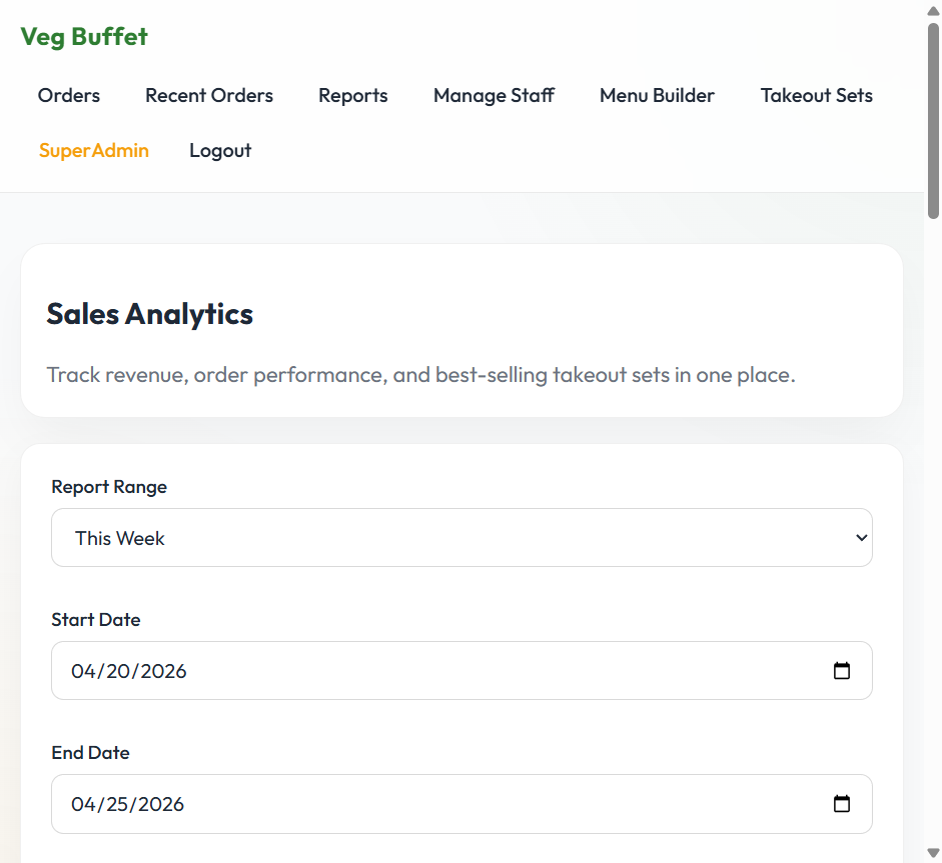
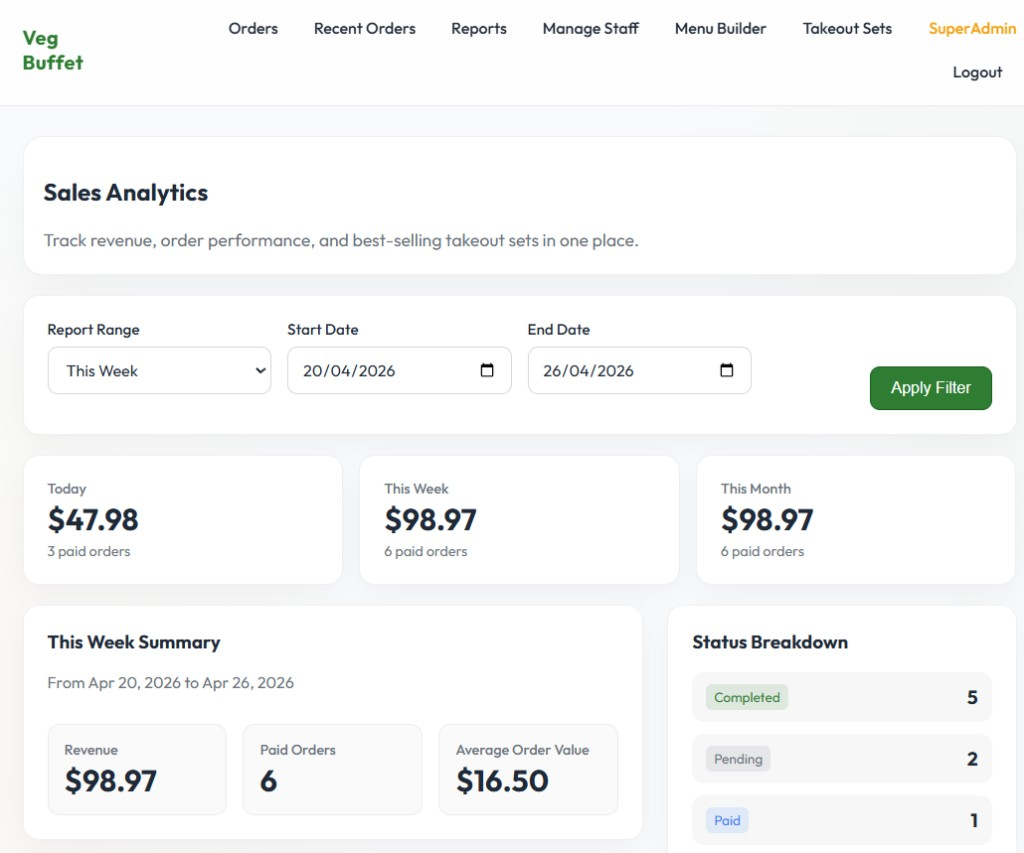
Add takeout and menu-form screenshots; expand Reports section; renumber admin figures
Made-with: Cursor

diff --git a/docs/user-guide.html b/docs/user-guide.html
@@ -474,92 +474,149 @@
     </p>
 
     <figure>
-      <img src="assets/screenshots/admin-menu.png" alt="Menu Builder page showing a vertical list of day buttons on the left side (Monday highlighted), with a form to add dishes on the right" />
-      <figcaption>Figure 10 — Menu Builder. Select a day on the left to see its current dishes and a form to add new ones.</figcaption>
+      <img src="assets/screenshots/admin-menu.png" alt="Menu Builder page showing a vertical list of day buttons on the left side (Monday highlighted), with current dishes listed and a form to add new dishes on the right" />
+      <figcaption>Figure 10 — Menu Builder. Click a day on the left to see its current dishes. Use the form on the right to add new dishes to that day.</figcaption>
     </figure>
 
     <p>How to use:</p>
     <ol>
-      <li>Click a <strong>day name</strong> to select it. The current dishes for that day appear on the right.</li>
+      <li>Click a <strong>day name</strong> on the left to select it. The dishes assigned to that day appear on the right.</li>
       <li>To <strong>remove a dish</strong> from the day, click <strong>Remove</strong> next to it.</li>
-      <li>To <strong>add a dish</strong>, fill in the <em>Dish Name</em>, <em>Description</em>, and optionally upload an image, then click <strong>Add</strong>.</li>
+      <li>To <strong>add a dish</strong>, fill in the <em>Dish Name</em> and <em>Description / Ingredients</em>, optionally upload an image, then click <strong>Add</strong>.</li>
     </ol>
+
+    <figure>
+      <img src="assets/screenshots/admin-menu-form.png" alt="Add Dish to Menu form with fields for Dish Name, Description / Ingredients textarea, and Upload Image file picker, with a green Add button at the bottom" />
+      <figcaption>Figure 11 — Add Dish form inside Menu Builder. Enter the dish name and ingredient description, optionally upload a photo, then click Add to assign it to the selected day.</figcaption>
+    </figure>
+
     <div class="note note-info">
       <div class="note-title">ℹ Dishes are shared across days</div>
       The same dish can appear on multiple days. If the dish name already exists in the database,
-      the system reuses the existing record and simply links it to the selected day.
+      the system reuses the existing dish record and links it to the selected day — no duplicate is created.
     </div>
 
     <h3 id="admin-takeout">Takeout Sets Management</h3>
-    <p>Go to <strong>Takeout Sets</strong> to manage the product catalog customers see on the Takeout page.</p>
+    <p>
+      Go to <strong>Takeout Sets</strong> to manage the product catalog that customers see on the Takeout page.
+      The page is split into two panels: existing sets on the left, and an Add New Set form on the right.
+    </p>
+
+    <figure>
+      <img src="assets/screenshots/admin-takeout.png" alt="Takeout Sets management page with existing sets listed on the left (Custom Takeout Box, Vegan Delight Box, Gluten-Free Harvest with Edit and Delete buttons) and an Add New Set form on the right with fields for Name, Description, Price, and Upload Image" />
+      <figcaption>Figure 12 — Takeout Sets page. Existing sets are listed on the left with Edit and Delete actions. The right panel creates a new set.</figcaption>
+    </figure>
+
     <ul>
-      <li><strong>Add a set:</strong> fill in name, description, price, image, and availability, then click Add Set.</li>
-      <li><strong>Toggle availability:</strong> each set has an Available/Unavailable toggle. Unavailable sets are hidden from customers.</li>
-      <li><strong>Edit a set:</strong> click Edit to modify any field.</li>
-      <li><strong>Delete a set:</strong> click Delete to permanently remove a set.</li>
+      <li><strong>Add a set:</strong> fill in the Name, Description, Price, and optionally upload an image on the right panel, then click <strong>Add Set</strong>.</li>
+      <li><strong>Edit a set:</strong> click <strong>Edit</strong> on any existing set to modify its fields inline.</li>
+      <li><strong>Delete a set:</strong> click <strong>Delete</strong> to permanently remove a set. This cannot be undone.</li>
+      <li><strong>Custom Box tag:</strong> sets marked as "Custom Box" (like the Custom Takeout Box) allow customers to write in their own dish selection instead of a fixed contents list.</li>
     </ul>
 
     <h3 id="admin-staff">Staff Account Management</h3>
-    <p>Go to <strong>Manage Staff</strong> to manage who has access to the internal portal.</p>
+    <p>Go to <strong>Manage Staff</strong> to control who can log into the internal portal.</p>
 
     <figure>
       <img src="assets/screenshots/admin-staff.png" alt="Manage Staff page showing a table of current staff accounts with email, status, creation date, and action buttons (Disable, Reset Password), plus a Create Staff Account form at the bottom" />
-      <figcaption>Figure 11 — Staff Management page. Active staff accounts are listed at the top. The form at the bottom creates new staff accounts.</figcaption>
+      <figcaption>Figure 13 — Staff Management page. All staff accounts are listed at the top. The form at the bottom creates a new staff account.</figcaption>
     </figure>
 
     <h4>Creating a Staff Account</h4>
     <ol>
-      <li>Scroll to the <strong>Create Staff Account</strong> section.</li>
-      <li>Enter the staff member's email and a temporary initial password.</li>
-      <li>Click <strong>Create Staff</strong>. The account is immediately active.</li>
-      <li>Share the credentials with the new staff member securely.</li>
+      <li>Scroll to the <strong>Create Staff Account</strong> section at the bottom of the page.</li>
+      <li>Enter the staff member's email address and a temporary initial password.</li>
+      <li>Click <strong>Create Staff</strong>. The account is active immediately.</li>
+      <li>Share the email and password with the new staff member so they can log in.</li>
     </ol>
 
     <h4>Disabling an Account</h4>
     <p>
-      Click <strong>Disable</strong> next to an account. The staff member can no longer log in.
-      Their account is not deleted — click <strong>Enable</strong> to restore access.
+      Click <strong>Disable</strong> next to a staff account. That account can no longer log in.
+      The account is not deleted — click <strong>Enable</strong> to restore access at any time.
+      This is useful for temporarily suspending access without losing the account history.
     </p>
 
     <h4>Resetting a Password</h4>
     <p>
-      Click <strong>Reset Password</strong> next to an account. Enter and confirm a new temporary password.
-      Share it with the staff member so they can log in.
+      Click <strong>Reset Password</strong> next to an account. Enter and confirm a new password.
+      Share the new password with the staff member so they can log in again.
     </p>
 
     <h3 id="admin-reports">Sales Reports</h3>
-    <p>Go to <strong>Reports</strong> to view sales data. Accessible only to the Super Admin.</p>
+    <p>
+      Go to <strong>Reports</strong> to view all sales analytics. This page is only accessible to Super Admin accounts.
+      It gives a real-time overview of revenue, order volume, and product performance across any time period.
+    </p>
 
     <figure>
-      <img src="assets/screenshots/admin-reports.png" alt="Sales Analytics page showing a report range filter at the top, three KPI metric cards, a best-selling sets table, and a sidebar with status breakdown, business insights, and peak pickup windows" />
-      <figcaption>Figure 12 — Sales Analytics page. Filter by time period using the dropdown. The page shows revenue KPIs, best sellers, order status breakdown, auto-generated insights, and peak pickup times.</figcaption>
+      <img src="assets/screenshots/admin-reports.png" alt="Sales Analytics page showing a Report Range filter with dropdown and date pickers, three always-visible KPI cards for Today / This Week / This Month revenue, a period summary section with Revenue, Paid Orders and Average Order Value, and a Status Breakdown panel on the right" />
+      <figcaption>Figure 14 — Sales Analytics page. The top filter selects the reporting period. KPI cards always show Today, This Week, and This Month at a glance. The detailed summary and status breakdown update based on the selected filter.</figcaption>
     </figure>
 
+    <h4>Using the Report Filter</h4>
+    <p>
+      At the top of the page, use the <strong>Report Range</strong> dropdown to select a preset period
+      (Today, This Week, This Month) or choose <strong>Custom Range</strong> and set specific start and end dates.
+      Click <strong>Apply Filter</strong> to reload the data for that period.
+    </p>
+
+    <h4>What Each Section Shows</h4>
     <div class="table-wrap">
       <table>
-        <thead><tr><th>Report Section</th><th>What It Shows</th></tr></thead>
+        <thead><tr><th>Section</th><th>What It Shows</th><th>Why It's Useful</th></tr></thead>
         <tbody>
-          <tr><td><strong>Overview cards (top)</strong></td><td>Revenue and order count for Today, This Week, and This Month — always shown regardless of the filter</td></tr>
-          <tr><td><strong>Report Range filter</strong></td><td>Select Today / This Week / This Month / Custom Range. Click Apply Filter to update the data below.</td></tr>
-          <tr><td><strong>Summary</strong></td><td>Revenue, paid order count, and average order value for the selected period</td></tr>
-          <tr><td><strong>Best-Selling Sets</strong></td><td>Ranked table of takeout sets by units sold and revenue</td></tr>
-          <tr><td><strong>Status Breakdown</strong></td><td>Count of orders in each status for the period</td></tr>
-          <tr><td><strong>Business Insights</strong></td><td>Auto-generated text insights (e.g., top seller, underperforming sets)</td></tr>
-          <tr><td><strong>Slow-Moving Sets</strong></td><td>Available sets with the fewest orders — useful for deciding what to promote or remove</td></tr>
-          <tr><td><strong>Peak Pickup Windows</strong></td><td>Time slots with the most orders — useful for staffing</td></tr>
+          <tr>
+            <td><strong>KPI Cards (always visible)</strong></td>
+            <td>Revenue and paid order count for Today, This Week, and This Month — always displayed regardless of the filter</td>
+            <td>Quick snapshot of the business without needing to change the filter</td>
+          </tr>
+          <tr>
+            <td><strong>Period Summary</strong></td>
+            <td>Revenue, number of paid orders, and average order value for the selected filter period</td>
+            <td>Understand performance within a specific time window</td>
+          </tr>
+          <tr>
+            <td><strong>Status Breakdown</strong></td>
+            <td>Count of orders in each status (Completed, Paid, Preparing, Pending, Cancelled) for the selected period</td>
+            <td>Identify how many orders are still active vs. completed or abandoned</td>
+          </tr>
+          <tr>
+            <td><strong>Best-Selling Sets</strong></td>
+            <td>Ranked list of takeout sets by units sold and revenue generated</td>
+            <td>Know which products are driving the most revenue</td>
+          </tr>
+          <tr>
+            <td><strong>Slow-Moving Sets</strong></td>
+            <td>Available sets with the lowest number of orders</td>
+            <td>Identify products to promote, reposition, or discontinue</td>
+          </tr>
+          <tr>
+            <td><strong>Business Insights</strong></td>
+            <td>Auto-generated text summaries (e.g., top seller, underperforming items, revenue trend)</td>
+            <td>Actionable conclusions without needing to manually read the numbers</td>
+          </tr>
+          <tr>
+            <td><strong>Peak Pickup Windows</strong></td>
+            <td>Time slots with the highest order volume</td>
+            <td>Plan staffing levels around the busiest hours</td>
+          </tr>
         </tbody>
       </table>
     </div>
 
     <h3>Cancelling an Order</h3>
     <p>
-      On the Order Queue dashboard, Super Admins see a <strong>Cancel Order</strong> button on each order card.
-      This immediately sets the order to Cancelled status.
+      On the Order Queue dashboard, Super Admins see a <strong>Cancel Order</strong> button on each active order card
+      (Staff accounts do not have this button). Clicking it immediately sets the order to Cancelled status
+      and removes it from the queue.
     </p>
     <div class="note note-danger">
-      <div class="note-title">⛔ Cancelling does not issue a Stripe refund</div>
+      <div class="note-title">⛔ Cancelling does not issue a Stripe refund automatically</div>
       Cancelling an order only changes its status in the database.
-      To refund the customer, log into the Stripe Dashboard and issue a refund manually for that payment.
+      If the customer has already paid and deserves a refund, log into the
+      <a href="https://dashboard.stripe.com/test/payments" target="_blank">Stripe Dashboard</a>,
+      find the payment, and issue a manual refund from there.
     </div>
 
     <hr />
